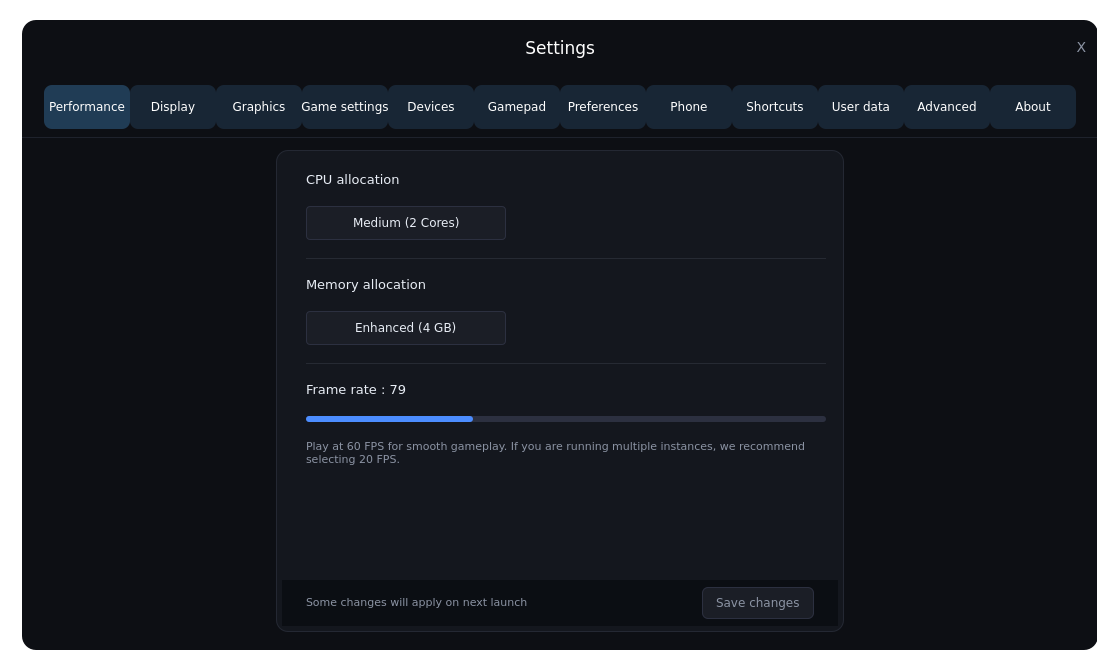
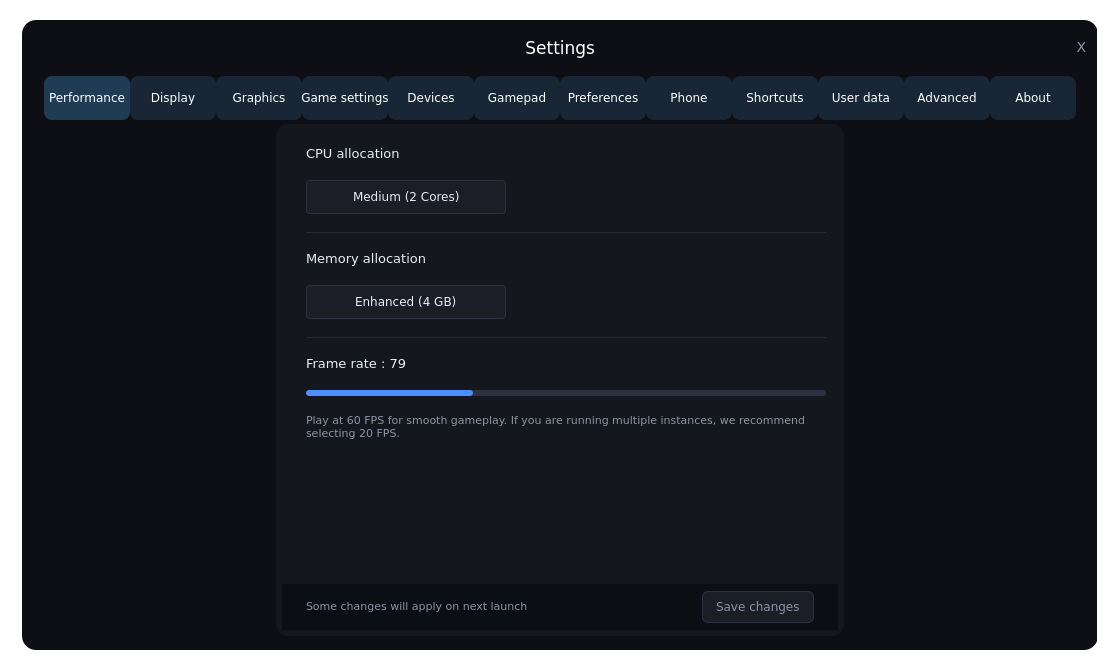
Fit the rebuilt Settings shell inside the player's resource slot
The Windows matrix caught a hard regression the local tests could not: on the
5.9/5.10 reference players UiSettingsWindow.qml has only 2468 bytes of slot,
and the new shell needed 2795, so every apply failed with 'make the edit
shorter'. The shell is now 2052 bytes (-72% of the earlier v9 draft) while
keeping the identical centred structure, the equal-slot tab strip and the
six-level parent depth the About page walks.

The tab slots now divide the shell width instead of the measured strip width,
which also removed a binding loop that collapsed the strip to zero.

Adds a byte-budget assertion to the runtime test and a size check to the
Windows self-test so an oversized shell can never ship silently again.

diff --git a/src/core/SettingsPanelPatcher.cpp b/src/core/SettingsPanelPatcher.cpp
@@ -703,25 +703,18 @@ QString buildWindow(const QString &stock)
 UiShadowContainer{// BSI Settings v9
 id:iSettingsWindowShadowContainer;anchors.fill:parent
 property var bHidden:[];property var bIcons:({})
-property int pPageWidth:568
-// Never let a category be half-clipped at the shell edge: when the labels do
-// not fit, every tab shrinks by the same amount instead of the strip being cut
-// off. `v.count` is the live tab count and bHidden removes hidden categories.
-property int pTabSlot:Math.floor((width-32)/Math.max(1,v.count-(bHidden?bHidden.length:0)))
 Rectangle{anchors.fill:parent;color:"#0d0f14";radius:14;clip:true
-Item{id:iShellContent;anchors.fill:parent
+Column{anchors.fill:parent;spacing:0
 Item{width:parent.width;height:56
 MouseArea{anchors.fill:parent;onPressed:iSettingsWindow.startSystemMove()}
 Text{text:qsTranslate("QObject","Settings");color:"white";font:UiTheme.fonts.bodyLarge;anchors.centerIn:parent}
 UiImageButton{asset:"CloseIcon";pImageWidth:16;pImageHeight:16;anchors.right:parent.right;anchors.verticalCenter:parent.verticalCenter;onClicked:iSettingsWindow.close()}}
-Item{width:parent.width;height:62;y:56
-ListView{id:v;width:Math.min(contentWidth,parent.width-32);height:44;x:Math.max(16,(parent.width-width)/2);anchors.verticalCenter:parent.verticalCenter;orientation:ListView.Horizontal;model:pSettingsItems.pSettingElements;clip:true;spacing:0
-delegate:Item{property var k:modelData.pQmlSource.toLowerCase().split("/").pop();property var h:iSettingsWindowShadowContainer.bHidden;property int pNat:Math.max(64,modelData.pButtonText.length*8+24);property int pSlot:iSettingsWindowShadowContainer.pTabSlot;width:pSlot*(!~h.indexOf(k));height:44
+ListView{id:v;width:Math.min(contentWidth,parent.width-32);height:48;x:Math.max(16,(parent.width-width)/2);orientation:ListView.Horizontal;model:pSettingsItems.pSettingElements;clip:true
+delegate:Item{property var k:modelData.pQmlSource.toLowerCase().split("/").pop();property var h:iSettingsWindowShadowContainer.bHidden;width:Math.floor((iSettingsWindowShadowContainer.width-32)/Math.max(1,v.count-h.length))*(!~h.indexOf(k));height:44
 UiSettingsButton{anchors.fill:parent;pSettingIdx:index;pSettingBtnText:modelData.pButtonText;pSelected:index==pCurrentTabIndex;pShowRedDot:modelData.pShowRedDot;onSettingClicked:fChangeSelectedSetting(pSettingIdx)}
-Image{source:iSettingsWindowShadowContainer.bIcons[parent.k]||"";width:18;height:18;anchors.centerIn:parent}}
+Image{source:iSettingsWindowShadowContainer.bIcons[parent.k]||"";width:parent.width?18:0;height:18;anchors.centerIn:parent}}
 }
-Rectangle{anchors.bottom:parent.bottom;width:parent.width;height:1;color:"#1e222c"}}
-Rectangle{id:iPageFrame;x:(parent.width-width)/2;y:130;width:Math.min(parent.width-32,iSettingsWindowShadowContainer.pPageWidth);height:parent.height-148;radius:12;color:"#14171e";border.color:"#242833";clip:true
+Rectangle{x:Math.max(16,(parent.width-Math.min(parent.width-32,568))/2);width:Math.min(parent.width-32,568);height:parent.height-118;color:"#14171e";radius:12;clip:true
 StackLayout{id:iSelectedSettingControl;anchors.fill:parent;anchors.margins:6;currentIndex:pCurrentTabIndex
 Repeater{model:pSettingsItems.pSettingElements;delegate:Loader{width:iSelectedSettingControl.width;height:iSelectedSettingControl.height;Component.onCompleted:setSource(model.modelData.pQmlSource,model.modelData.pComponentArgs||{});onLoaded:{item.anchors.fill=item.parent;model.modelData.pComponentObj=item;if(item.fOnQmlLoaded)item.fOnQmlLoaded()}}}}
 }

diff --git a/tests/settings_panel_runtime_test.py b/tests/settings_panel_runtime_test.py
@@ -70,7 +70,7 @@ assert "function fOnQmlLoaded(){parent.parent.parent.parent.parent.parent.parent
 assert "property var bsiHiddenTabs: @@BSI_HIDDEN_TABS@@" in cpp
 assert "property var bsiTabIcons: @@BSI_TAB_ICONS@@" in cpp
 assert 'Rectangle{anchors.fill:parent;color:"#0d0f14";radius:14' in replacement
-assert "Item{id:iShellContent;anchors.fill:parent" in replacement
+assert "Column{anchors.fill:parent;spacing:0" in replacement
 assert "MouseArea{anchors.fill:parent;onPressed:iSettingsWindow.startSystemMove()}" in replacement
 assert "anchors.centerIn:parent" in replacement
 assert "ListView{id:v;" in replacement
@@ -78,17 +78,18 @@ assert "orientation:ListView.Horizontal;model:pSettingsItems.pSettingElements;cl
 assert "x:Math.max(16,(parent.width-width)/2)" in replacement, "The tab strip should be centered, not left-anchored"
 assert "width:Math.min(contentWidth,parent.width-32)" in replacement
 assert "property var h:iSettingsWindowShadowContainer.bHidden" in replacement
-assert "property int pSlot:iSettingsWindowShadowContainer.pTabSlot" in replacement
-assert "width:pSlot*(!~h.indexOf(k));height:44" in replacement
+assert "property var h:iSettingsWindowShadowContainer.bHidden" in replacement
+assert "width:Math.floor((iSettingsWindowShadowContainer.width-32)/Math.max(1,v.count-h.length))*(!~h.indexOf(k));height:44" in replacement
 # Every category must stay reachable: the strip divides the shell width into
 # equal slots instead of letting the last tab be half-clipped at the edge.
-assert "property int pTabSlot:Math.floor((width-32)/Math.max(1,v.count-(bHidden?bHidden.length:0)))" in replacement
 assert "item.anchors.fill=item.parent" in replacement
-assert "height:parent.height-148" in replacement and "y:130" in replacement
+assert "height:parent.height-118" in replacement
 assert "StackLayout{id:iSelectedSettingControl;anchors.fill:parent;anchors.margins:6" in replacement
-assert "property int pPageWidth:568" in replacement, "The page host should be a bounded card"
-assert "Rectangle{id:iPageFrame;x:(parent.width-width)/2;" in replacement, "The page host must be horizontally centered in the shell"
-assert "width:Math.min(parent.width-32,iSettingsWindowShadowContainer.pPageWidth)" in replacement
+# The embedded QML must stay inside the smallest player resource slot;
+# growing it past that is a hard patch failure on 5.9/5.10 players.
+assert len(replacement.encode()) <= 2300, f"shell grew to {len(replacement.encode())} bytes"
+assert "x:Math.max(16,(parent.width-Math.min(parent.width-32,568))/2)" in replacement, "The page host must be horizontally centered in the shell"
+assert "width:Math.min(parent.width-32,568)" in replacement
 assert "delegate:Loader{width:iSelectedSettingControl.width;height:iSelectedSettingControl.height;" in replacement
 assert "pSettingBtnText:" in replacement and "pSelected:index==pCurrentTabIndex" in replacement and "pShowRedDot:modelData.pShowRedDot" in replacement
 assert "pSettingIdx:index" in replacement

diff --git a/src/patch_regression_test.cpp b/src/patch_regression_test.cpp
@@ -5199,14 +5199,12 @@ Window {
                           // The bounded, centered page region: the stock pages are
                           // fixed-width, so stretching one across the shell leaves
                           // its content hugging the left edge.
-                          && rebuiltWindow.contains(QStringLiteral("property int pPageWidth:"))
-                          && rebuiltWindow.contains(QStringLiteral("Rectangle{id:iPageFrame;x:(parent.width-width)/2;"))
-                          && rebuiltWindow.contains(QStringLiteral("width:Math.min(parent.width-32,iSettingsWindowShadowContainer.pPageWidth)"))
+                          && rebuiltWindow.contains(QStringLiteral("x:Math.max(16,(parent.width-Math.min(parent.width-32,568))/2)"))
+                          && rebuiltWindow.contains(QStringLiteral("width:Math.min(parent.width-32,568)"))
                           && rebuiltWindow.contains(QStringLiteral("x:Math.max(16,(parent.width-width)/2)"))
                           // Tabs divide the strip into equal slots so the last
                           // category is never half-clipped at the shell edge.
-                          && rebuiltWindow.contains(QStringLiteral("property int pTabSlot:"))
-                          && rebuiltWindow.contains(QStringLiteral("width:pSlot*(!~h.indexOf(k))"))
+                          && rebuiltWindow.contains(QStringLiteral("Math.max(1,v.count-h.length)"))
                           && rebuiltWindow.contains(QStringLiteral("MouseArea{anchors.fill:parent;onPressed:iSettingsWindow.startSystemMove()}"))
                           && rebuiltWindow.contains(QStringLiteral("pShowRedDot:modelData.pShowRedDot"))
                           && rebuiltWindow.contains(QStringLiteral("anchors.centerIn:parent"))
@@ -5228,6 +5226,13 @@ Window {
                           && rebuiltWindow.contains(QStringLiteral("asset:\"CloseIcon\"")),
                       QStringLiteral("the rebuilt %1 Settings panel restores the PR #88 shell and adds customizable tabs while preserving native pages, selection, dragging, and close behavior")
                           .arg(QFileInfo(input).fileName()));
+                // The embedded shell has to fit the smallest player resource slot;
+                // on the 5.9/5.10 references UiSettingsWindow.qml only has 2468
+                // bytes, and an oversized shell fails the whole apply.
+                check(rebuiltWindow.toUtf8().size() <= 2400,
+                      QStringLiteral("the rebuilt %1 Settings shell (%2 bytes) still fits a compact player resource slot")
+                          .arg(QFileInfo(input).fileName())
+                          .arg(rebuiltWindow.toUtf8().size()));
                 QString expectedLogoSource;
                 for (const auto &entry : EmbeddedResources::list(original, true)) {
                     if (entry.path.compare(QLatin1String("qrcAssets/BlueStacks5Beta.svg"), Qt::CaseInsensitive) == 0)
